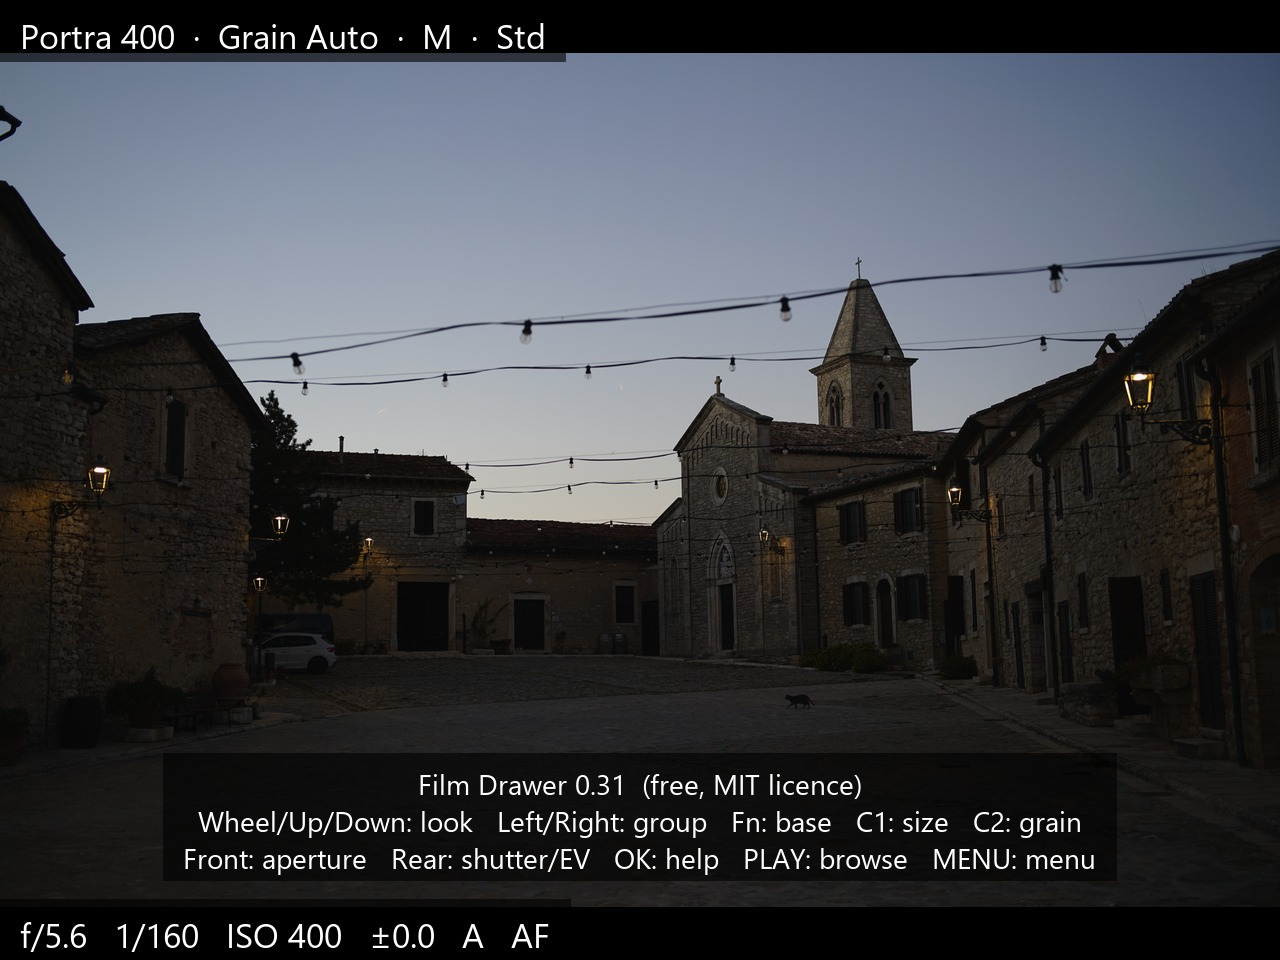
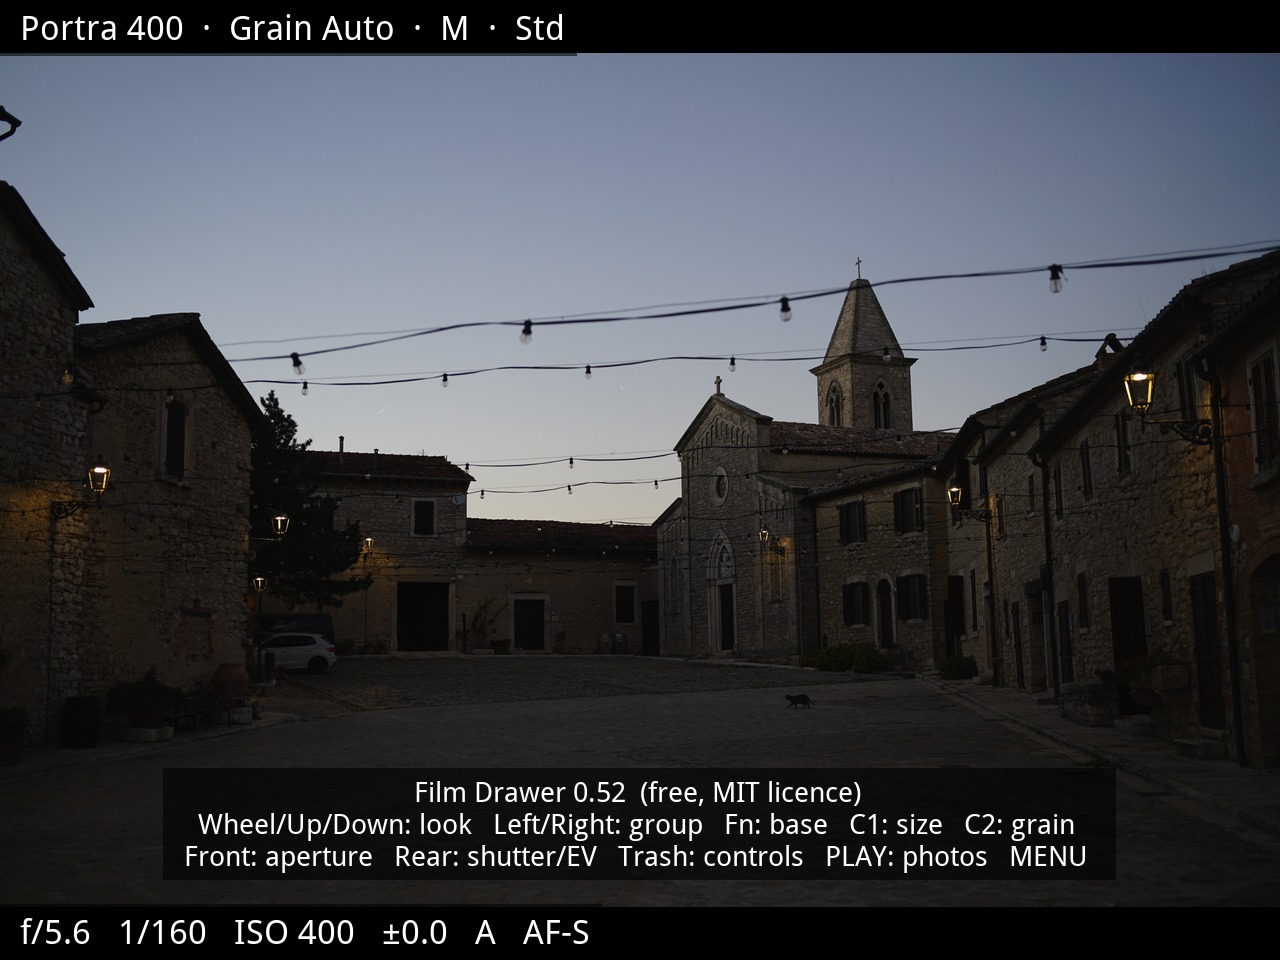
README: screenshots and controls for 0.52, known limits

diff --git a/README.md b/README.md
@@ -18,10 +18,11 @@ By Almost Dark Studio: https://almostdarkstudio.com
 ## What it does
 - 40 looks in 8 groups: Kodak negative, Cinema, Fuji & Agfa negative, Fuji simulations, Slide,
   Instant, Specialty (Metropolis, Aerochrome-style infrared), Black & white. Film grain per look;
-  CineStill looks add a red halation glow around lights.
+  CineStill 800T is tuned against real scans, with the red-orange halation around lights; 50D has a gentler one.
   **Almost Dark**, in Cinema, is the studio's own low-light look: deep blacks, rich lamplight, clean lights.
 - Shoot inside the app. A quick review shows each photo in its look, and the conversion runs in
   the background (about 20-25 s per photo at JPEG size M on an a7R II).
+- Mark your **favourites** (MENU > Favourites) and they become the first group.
 - Browse any photo on the card, preview a look, and convert it. Or view your converted photos
   (the camera's own playback cannot show them) and delete the ones you don't want: PLAY.
 - Converted files go to `FILMDRAW\<folder>\<TAG><number>.JPG` (for example
@@ -40,10 +41,11 @@ lights. Resized for this page, no other editing. Photo: Almost Dark Studio.*
 | | |
 |---|---|
 | ![Shooting, with help](docs/screenshots/1-shoot.jpg)<br>Shooting (help shows for a few seconds) | ![Changing look](docs/screenshots/2-look-card.jpg)<br>Changing look: the card shows your last shot in it |
-| ![Menu](docs/screenshots/3-menu.jpg)<br>MENU | ![Browsing, Almost Dark](docs/screenshots/4-browse.jpg)<br>Browsing a photo converted with Almost Dark |
-| ![Quick review, Almost Dark](docs/screenshots/6-review.jpg)<br>Quick review: the shot you just took, in Almost Dark | ![Converted photos, Aerochrome](docs/screenshots/5-converted.jpg)<br>Your converted photos (Aerochrome) |
+| ![Menu](docs/screenshots/3-menu.jpg)<br>MENU | ![Browsing, Almost Dark](docs/screenshots/4-browse.jpg)<br>All photos: one converted with Almost Dark |
+| ![Quick review, Almost Dark](docs/screenshots/6-review.jpg)<br>Quick review: the shot you just took, in Almost Dark | ![Converted photos, Aerochrome](docs/screenshots/5-converted.jpg)<br>PLAY: your converted photos (Aerochrome) |
+| ![Favourites](docs/screenshots/7-favourites.jpg)<br>MENU > Favourites: mark the looks you use | ![Controls](docs/screenshots/8-controls.jpg)<br>Controls: press Trash while shooting |
 
-*Recreated from the app's layout code with its own film engine; the camera has no screenshot function.*
+*Drawn for 0.52 from the app's layout with its own film engine; the camera has no screenshot function, and its fonts may differ a little.*
 
 ## Download
 Get `FilmDrawer-<version>.apk` and `SHA256SUMS.txt` from the [Releases](../../releases) page.
@@ -64,15 +66,15 @@ Check the download first: `SHA256SUMS.txt` lists the APK's checksum.
 ## Controls
 | | Shoot mode | Browse mode |
 |---|---|---|
-| Wheel / Up / Down | Change look (a card shows your last photo in that look). The wheel can change ISO instead (Controls > Wheel) | Change look |
+| Wheel / Up / Down | Change look (a card shows your last photo in that look). The wheel can change ISO instead (Controls > Wheel) | Change look (converted photos: change photo) |
 | Left / Right | Jump to the previous / next look group | Previous / next photo |
-| Front dial | Aperture (A/M/P), or shutter speed (Controls > Dials) | Change look |
+| Front dial | Aperture (A/M/P), or shutter speed (Controls > Dials) | Change look (converted photos: change photo) |
 | Rear dial | Shutter speed (S/M), else exposure compensation, or aperture (Controls > Dials) | Previous / next photo |
 | Fn | Base style: Standard / Neutral / Camera settings | Switch between all photos and converted photos |
 | C1 | JPEG size in the app: M / S / L, with your camera's megapixels | |
 | EV dial (a7R II) | Exposure compensation follows the dial | |
 | C2 | Grain: Auto (per look) / Off / Low / Medium / High | Same |
-| OK | Show / hide help | Convert this photo |
+| OK | Show / hide help | Convert this photo (converted photos: show / hide help) |
 | Trash | **Controls**: the list below, with Move focus point first | All photos: before / after. Converted photos: delete (asks first; only the converted copy, never the original) |
 | PLAY | Your converted photos, newest first (Fn: all photos) | Back to shooting (or half-press) |
 | MENU | Menu: look, grain, base style, JPEG size, quick review, **Controls**, **Favourites**, photos, about, **Exit application** | Same |
@@ -93,9 +95,8 @@ the wheel carries on into Kodak. Each look also stays in its own group.
 again, MENU, PLAY or a half-press cancels. Only the converted copy is deleted, and the app warns you if the original is
 no longer on the card. The app never deletes originals: use the camera's own playback for those.
 
-The camera's mode dial sets the exposure mode as usual (P/A/S/M). In 0.32 and earlier, set it before opening the app:
-turning it in the app had no effect. Everything on Fn, C1 and C2 is also
-in the menu, for bodies without those buttons. To leave the app: MENU > Exit application (photos still
+The camera's mode dial sets the exposure mode as usual (P/A/S/M). Everything on Fn, C1 and C2 is also in the menu, for
+bodies without those buttons. To leave the app: MENU > Exit application (photos still
 converting carry on next time).
 
 ## The looks
@@ -121,6 +122,20 @@ them back when you leave the app with MENU > Exit application, or the next time 
 camera was switched off. Please check your settings the first time. Choose
 "Camera settings" (Fn) to leave your Creative Style alone. RAW files are never affected.
 
+## Known limits
+- **"Live view failed" (a7):** after viewing photos, the live view sometimes did not come back on an original a7. 0.48
+  changed how it starts, but that is not confirmed there yet. If it happens: half-press to try again, or MENU > Exit
+  application and open the app again. Please report it with `FILMDRAW\HANG.TXT`.
+- Lock-on (tracking) AF, Eye AF, the Zone and expanded focus areas, and the camera's own custom buttons and dial settings
+  do not work in the app.
+- RAW files already on the card without a JPEG cannot be converted.
+- The looks work on the camera's JPEG, after its own white balance. CineStill 800T therefore goes less blue in daylight
+  than real film.
+- Grain has a fixed pixel size: coarser in small photos, finer in large ones.
+- If your camera keeps contrast, saturation and sharpness separately for each Creative Style, your own values for Standard
+  and Neutral may be left at the app's (not confirmed). If you have changed those two styles, please check them.
+- On an original a7, a 24 MP photo takes about a minute to convert.
+
 ## Problems
 - If the app freezes or crashes it writes `FILMDRAW\HANG.TXT` or `FILMDRAW\CRASH.TXT` on the card.
   Please include that file, your camera model and the app version (shown in the help) in a bug report.
@@ -129,7 +144,7 @@ camera was switched off. Please check your settings the first time. Choose
 
 ## Requests and feedback
 Missing a film stock, or using a camera that has not been tested? [Open an issue](../../issues/new/choose):
-- **Look request:** a stock or look you would like. Your own scans help most. Looks must be free to share, so please
+- **Look request:** a stock or look you would like, or one that looks wrong to you. Your own scans help most. Looks must be free to share, so please
   do not send paid presets or LUTs.
 - **Camera report:** what works, or does not, on your model.
 - **Bug report:** what happened, with `CRASH.TXT` or `HANG.TXT` if there is one.

diff --git a/docs/USER-GUIDE.md b/docs/USER-GUIDE.md
@@ -14,10 +14,11 @@ By Almost Dark Studio: https://almostdarkstudio.com
 ## What it does
 - 40 looks in 8 groups: Kodak negative, Cinema, Fuji & Agfa negative, Fuji simulations, Slide,
   Instant, Specialty (Metropolis, Aerochrome-style infrared), Black & white. Film grain per look;
-  CineStill looks add a red halation glow around lights.
+  CineStill 800T is tuned against real scans, with the red-orange halation around lights; 50D has a gentler one.
   **Almost Dark**, in Cinema, is the studio's own low-light look: deep blacks, rich lamplight, clean lights.
 - Shoot inside the app. A quick review shows each photo in its look, and the conversion runs in
   the background (about 20-25 s per photo at JPEG size M on an a7R II).
+- Mark your **favourites** (MENU > Favourites) and they become the first group.
 - Browse any photo on the card, preview a look, and convert it. Or view your converted photos
   (the camera's own playback cannot show them) and delete the ones you don't want: PLAY.
 - Converted files go to `FILMDRAW\<folder>\<TAG><number>.JPG` (for example
@@ -40,15 +41,15 @@ Check the download first: `SHA256SUMS.txt` lists the APK's checksum.
 ## Controls
 | | Shoot mode | Browse mode |
 |---|---|---|
-| Wheel / Up / Down | Change look (a card shows your last photo in that look). The wheel can change ISO instead (Controls > Wheel) | Change look |
+| Wheel / Up / Down | Change look (a card shows your last photo in that look). The wheel can change ISO instead (Controls > Wheel) | Change look (converted photos: change photo) |
 | Left / Right | Jump to the previous / next look group | Previous / next photo |
-| Front dial | Aperture (A/M/P), or shutter speed (Controls > Dials) | Change look |
+| Front dial | Aperture (A/M/P), or shutter speed (Controls > Dials) | Change look (converted photos: change photo) |
 | Rear dial | Shutter speed (S/M), else exposure compensation, or aperture (Controls > Dials) | Previous / next photo |
 | Fn | Base style: Standard / Neutral / Camera settings | Switch between all photos and converted photos |
 | C1 | JPEG size in the app: M / S / L, with your camera's megapixels | |
 | EV dial (a7R II) | Exposure compensation follows the dial | |
 | C2 | Grain: Auto (per look) / Off / Low / Medium / High | Same |
-| OK | Show / hide help | Convert this photo |
+| OK | Show / hide help | Convert this photo (converted photos: show / hide help) |
 | Trash | **Controls**: the list below, with Move focus point first | All photos: before / after. Converted photos: delete (asks first; only the converted copy, never the original) |
 | PLAY | Your converted photos, newest first (Fn: all photos) | Back to shooting (or half-press) |
 | MENU | Menu: look, grain, base style, JPEG size, quick review, **Controls**, **Favourites**, photos, about, **Exit application** | Same |
@@ -69,9 +70,8 @@ the wheel carries on into Kodak. Each look also stays in its own group.
 again, MENU, PLAY or a half-press cancels. Only the converted copy is deleted, and the app warns you if the original is
 no longer on the card. The app never deletes originals: use the camera's own playback for those.
 
-The camera's mode dial sets the exposure mode as usual (P/A/S/M). In 0.32 and earlier, set it before opening the app:
-turning it in the app had no effect. Everything on Fn, C1 and C2 is also
-in the menu, for bodies without those buttons. To leave the app: MENU > Exit application (photos still
+The camera's mode dial sets the exposure mode as usual (P/A/S/M). Everything on Fn, C1 and C2 is also in the menu, for
+bodies without those buttons. To leave the app: MENU > Exit application (photos still
 converting carry on next time).
 
 ## The looks
@@ -96,6 +96,20 @@ to RAW only, the app shoots RAW+JPEG while it is open. It saves your own setting
 them back when you leave the app with MENU > Exit application, or the next time you open it if the
 camera was switched off. Please check your settings the first time. Choose
 "Camera settings" (Fn) to leave your Creative Style alone. RAW files are never affected.
+
+## Known limits
+- **"Live view failed" (a7):** after viewing photos, the live view sometimes did not come back on an original a7. 0.48
+  changed how it starts, but that is not confirmed there yet. If it happens: half-press to try again, or MENU > Exit
+  application and open the app again. Please report it with `FILMDRAW\HANG.TXT`.
+- Lock-on (tracking) AF, Eye AF, the Zone and expanded focus areas, and the camera's own custom buttons and dial settings
+  do not work in the app.
+- RAW files already on the card without a JPEG cannot be converted.
+- The looks work on the camera's JPEG, after its own white balance. CineStill 800T therefore goes less blue in daylight
+  than real film.
+- Grain has a fixed pixel size: coarser in small photos, finer in large ones.
+- If your camera keeps contrast, saturation and sharpness separately for each Creative Style, your own values for Standard
+  and Neutral may be left at the app's (not confirmed). If you have changed those two styles, please check them.
+- On an original a7, a 24 MP photo takes about a minute to convert.
 
 ## Problems
 - If the app freezes or crashes it writes `FILMDRAW\HANG.TXT` or `FILMDRAW\CRASH.TXT` on the card.
